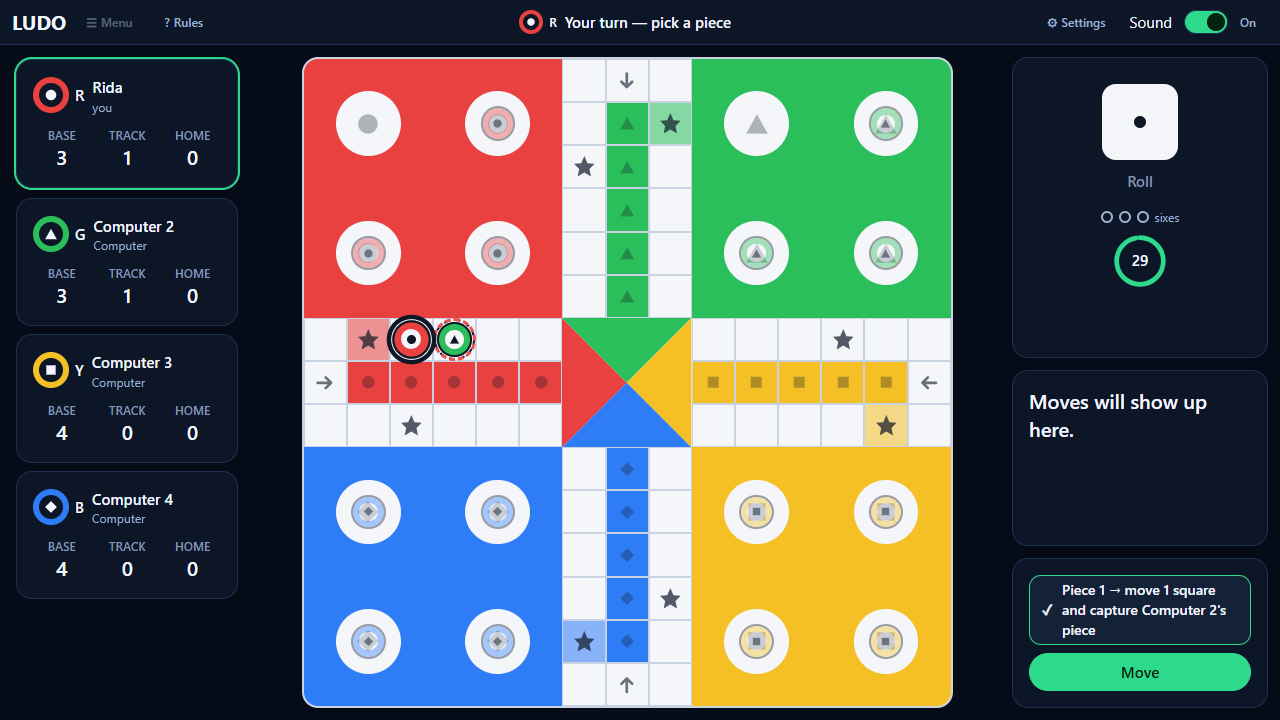
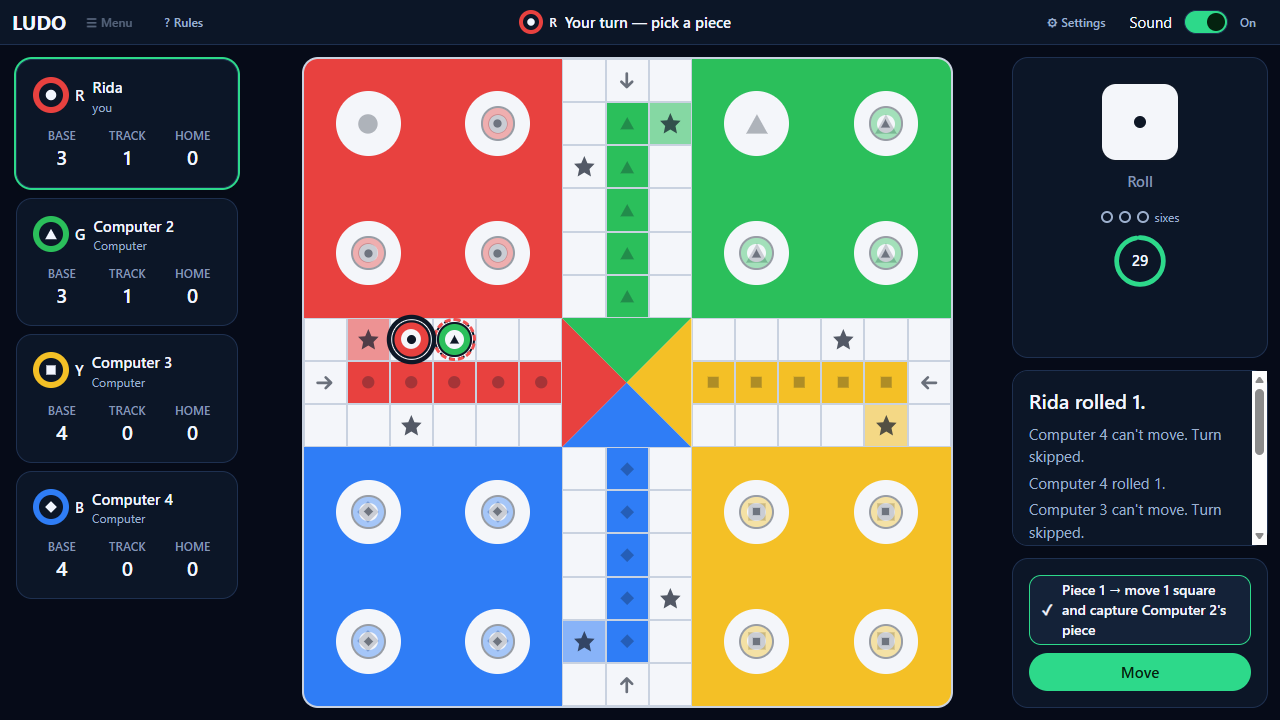
docs(traceability): record P9 evidence (FR-SYS-05, FR-SYS-10)
Adds the real-match checks and screenshots for event feedback, re-measures
the interrupted walk, and refreshes the rows they affect, including the PR
count for NFR-SYS-13.

Changed region(s): [[0.7812, 0.5194, 1.0, 0.7639]]

diff --git a/docs/05-traceability.md b/docs/05-traceability.md
@@ -16,12 +16,12 @@ Status: `—` not started · `WIP` · `Done` · `Blocked (reason)`
 | FR-SYS-02 Turn and dice | FR-08–11 | P7 | `src/store/gameStore.test.ts` covers EXC-02-1: a second roll while one is pending sends nothing. `src/components/Dice.test.tsx` proves the die shows exactly the value it is given and ignores presses while rolling. `src/screens/GameScreen.test.tsx` proves each of the five conditions alone stops a roll, a double click sends one roll, the turn text is right for each case, the die lands on the server's value, and a failed roll keeps the game and can be retried (EXC-02-2). `src/interaction/useDiceRoll.test.ts` covers the reply and the new state arriving in either order. `src/components/CountdownRing.test.tsx` proves the ring reads the clock every second and shows its time's-up message only at zero. `docs/evidence/FR-SYS-02-dice-checks.md` shows forced rolls of 1, 3 and 6 landing exactly in a real match | Done |
 | FR-SYS-03 Legal choices and move | FR-14–16, FR-18 | P8 | `src/store/gameStore.test.ts` covers EXC-03-2 in the store (an accepted move changes nothing until the snapshot arrives) and that legal moves come only from the server's list. `src/screens/GameScreen.test.tsx`, `src/interaction/useMoveSelection.test.ts`, `src/components/PieceLayer.test.tsx`, `src/components/Piece.test.tsx` and `src/components/MoveList.test.tsx` prove only `legalMoves` pieces are buttons (POST-03-1), the destination and capture preview, that one click never sends, that nothing moves before the new snapshot (EXC-03-2), and that a piece no longer legal shows the reason and resyncs (EXC-03-1, tests only). `docs/evidence/FR-SYS-03-move-checks.md` records whole games by mouse and by keyboard in a real match, and `docs/evidence/FR-SYS-03-capture-preview.png` shows the preview | Done |
 | FR-SYS-04 Invalid moves | FR-17 | P3, P8, P11 | `src/store/gameStore.test.ts` covers POST-04-1 (a rejected move leaves the snapshot deep-equal) and EXC-04-1 in the store (a timed-out command keeps state and clears pending). `src/adapter/LgsAdapter.test.ts` covers EXC-04-1 over a real socket (no ack, an ack for another request or an incomplete ack becomes `INTERNAL_ERROR`). `src/screens/GameScreen.test.tsx` proves on the game screen that a refused move shows the server's reason, drops the choice and leaves the board alone, that a reply with no reason gets friendly words (ALT-04-1), and that pressing again retries (EXC-04-1). These are tests only, because the real screen never offers an illegal piece. `src/components/ToastRegion.test.tsx` proves an error message stays until dismissed and sits in a live region. Still needed: recovery after a dropped connection (P11) | WIP |
-| FR-SYS-05 Animation and events | FR-19, FR-23, FR-36, FR-38 | P8, P9 | `src/store/gameStore.test.ts` proves an event never changes the snapshot. `src/components/MessageLog.tsx` exists but has no test of its own, and the game screen gives it no events yet. `src/components/PieceLayer.test.tsx` proves a moved piece keeps its element and lands where the geometry says, `src/feedback/motion.test.ts` covers how long it takes, and `docs/evidence/FR-SYS-09-game-screen-checks.md` measured 0 px error after a live move. `src/interaction/useMoveWalk.test.ts` and `src/screens/GameScreen.test.tsx` prove the step-by-step walk, Skip, an interrupted walk ending where the snapshot says, and the same final board with animation on or off (POST-05-2). `docs/evidence/FR-SYS-03-move-checks.md` measures each of these in a real match. Still needed: events in the message area, including captures (P9) | WIP |
+| FR-SYS-05 Animation and events | FR-19, FR-23, FR-36, FR-38 | P8, P9 | `src/store/gameStore.test.ts` proves an event never changes the snapshot. `src/feedback/messages.test.ts` covers every message template and proves nothing is guessed (EXC-05-1), `src/feedback/useEventFeedback.test.ts` proves events play in order and that no effect appears without an event, and `src/components/MessageLog.test.tsx` covers the log. `src/components/PieceLayer.test.tsx` proves a moved piece keeps its element and lands where the geometry says, `src/feedback/motion.test.ts` covers how long it takes, and `docs/evidence/FR-SYS-09-game-screen-checks.md` measured 0 px error after a live move. `src/interaction/useMoveWalk.test.ts` and `src/screens/GameScreen.test.tsx` prove the step-by-step walk, Skip, an interrupted walk ending where the snapshot says, and the same final board with animation on or off (POST-05-2). `docs/evidence/FR-SYS-03-move-checks.md` measures each of these in a real match, and `docs/evidence/FR-SYS-05-event-checks.md` records a capture playing in order, the log reading correctly, and Animations and Sound Off ending on the same board and words | Done |
 | FR-SYS-06 Progress and completion | FR-25–29 | P6, P10 | `src/config/geometry.test.ts` covers `progressCounts` and `src/store/gameStore.test.ts` covers `selectProgress` and `selectPlayerProgress`. `src/screens/GameScreen.test.tsx` checks Base, Track and Home against written-out numbers for all six fixtures, and that a dev-only check complains if `home` differs from `player.piecesHome`. `src/components/StatusPanel.test.tsx` covers the cards. `docs/evidence/FR-SYS-09-game-screen-checks.md` shows the cards matching the pieces in a live match. Still needed: winner screen only on `GAME_OVER` (P10) | WIP |
 | FR-SYS-07 Computer moves | FR-30–31 | P5, P7 | `src/store/gameStore.test.ts` covers `selectIsComputerTurn`. Choosing computer players is done: `src/screens/LobbyScreen.test.tsx` proves a seat fills only when `room:updated` arrives (POST-07-2), and `docs/evidence/FR-SYS-01-lobby-flow.md` shows it live in two tabs. `docs/evidence/FR-SYS-07-computer-move-from-snapshot.png` shows a computer's move drawn from a real snapshot on the game screen. `src/screens/GameScreen.test.tsx` proves a computer's turn says "Computer is thinking…" with the dots, and `docs/evidence/FR-SYS-07-computer-thinking.png` shows it in a real match | Done |
 | FR-SYS-08 Restart, exit, rematch | FR-32–34 | P5, P10 | `src/components/ConfirmDialog.test.tsx` covers the dialog alone. Leaving the lobby is connected: `src/screens/LobbyScreen.test.tsx` and `src/store/gameStore.test.ts` prove Cancel sends nothing (POST-08-1) and a failed leave keeps the room (POST-08-3), and `docs/evidence/FR-SYS-01-lobby-flow.md` shows Esc and Cancel changing nothing in a real browser. Still needed: confirm dialog on restart and leave during a game; cancel leaves the game unchanged | WIP |
-| FR-SYS-09 One-screen view | FR-35–36 | P6 | `docs/evidence/FR-SYS-09-one-screen-1280x720.png` and `docs/evidence/FR-SYS-09-game-screen-checks.md`: board, dice, turn, progress and messages all fit at 1280×720 with no scrolling, measured in Edge. Under 1024 px the layout stacks and hides nothing (ALT-09-1). `src/screens/GameScreen.test.tsx` proves every part is on the screen. `docs/evidence/FR-SYS-03-move-checks.md` re-measures the screen with the longest list of moves open. P7 filled the dice with live content, and P9 does the same for the messages | Done |
-| FR-SYS-10 Sound, animation, theme | FR-37–39 | P5, P8, P9 | `src/App.test.tsx` covers all three settings in the Settings modal and POST-10-2 and POST-10-3: changing them leaves the snapshot and room untouched and sends nothing to the server. `docs/evidence/FR-SYS-01-lobby-flow.md` shows the theme switching on every screen, and `docs/evidence/FR-SYS-10-game-light.png` shows the game screen in light theme. `src/screens/GameScreen.test.tsx` proves the top bar's sound switch leaves the snapshot alone. `docs/evidence/NFR-SYS-08-kitchen-sink-checks.md` shows On, Fast and Off changing how long CSS motion takes. `docs/evidence/FR-SYS-03-move-checks.md` shows Animations On and Off ending on an identical board in a real match. Sound is stored but nothing uses it yet. Still needed: toggle sound and theme during a real game and check the game state is unchanged (P9) | WIP |
+| FR-SYS-09 One-screen view | FR-35–36 | P6 | `docs/evidence/FR-SYS-09-one-screen-1280x720.png` and `docs/evidence/FR-SYS-09-game-screen-checks.md`: board, dice, turn, progress and messages all fit at 1280×720 with no scrolling, measured in Edge. Under 1024 px the layout stacks and hides nothing (ALT-09-1). `src/screens/GameScreen.test.tsx` proves every part is on the screen. `docs/evidence/FR-SYS-03-move-checks.md` re-measures the screen with the longest list of moves open, and `docs/evidence/FR-SYS-05-event-checks.md` with a full message log. P7 and P9 filled the dice and messages with live content | Done |
+| FR-SYS-10 Sound, animation, theme | FR-37–39 | P5, P8, P9 | `src/App.test.tsx` covers all three settings in the Settings modal and POST-10-2 and POST-10-3: changing them leaves the snapshot and room untouched and sends nothing to the server. `docs/evidence/FR-SYS-01-lobby-flow.md` shows the theme switching on every screen, and `docs/evidence/FR-SYS-10-game-light.png` shows the game screen in light theme. `src/screens/GameScreen.test.tsx` proves the top bar's sound switch leaves the snapshot alone. `docs/evidence/NFR-SYS-08-kitchen-sink-checks.md` shows On, Fast and Off changing how long CSS motion takes. `docs/evidence/FR-SYS-03-move-checks.md` shows Animations On and Off ending on an identical board in a real match. `src/feedback/sound.test.ts` proves sound waits for the first press and does nothing when off. `docs/evidence/FR-SYS-05-event-checks.md` shows the right sounds playing in a real match (placeholder tones), and sound, theme and animation changed during a real game with the board and log unchanged. Saving settings stays behind `PERSIST_SETTINGS` (ALT-10-1 is TO CONFIRM) | Done |
 | (D2 FR-07) Rules summary | FR-07 | P5, P6 | `src/components/RulesSummary.test.tsx` proves the text is built from `rules`. `src/App.test.tsx` proves How to play opens the standard rules from the main screen, that a room's own rules replace them in the lobby, and that the game screen's Rules button opens that match's rules. `docs/evidence/NFR-SYS-11-changed-rules.png` shows the text following the server's rules in a real match | Done |
 | (D2 FR-03) Same-device HvH | FR-03 | P13 | TO CONFIRM | Blocked (same-device play is TO CONFIRM, `00-requirements.md` §5) |
 
@@ -31,17 +31,17 @@ Status: `—` not started · `WIP` · `Done` · `Blocked (reason)`
 |---|---|---|---|
 | NFR-SYS-01 1 s acknowledgement | P4, P12 | `src/store/gameStore.test.ts` proves `pendingCommand` is set as soon as a roll is sent. `src/components/Button.test.tsx` and `src/components/Dice.test.tsx` prove the pending and rolling states. `docs/evidence/NFR-SYS-08-kitchen-sink-checks.md` shows "Rolling…" appearing at once. `src/screens/SetupScreen.test.tsx`, `src/screens/LobbyScreen.test.tsx` and `src/screens/GameScreen.test.tsx` prove the pressed control shows pending at once on the real screens, and `docs/evidence/FR-SYS-02-dice-checks.md` shows it on the die in a real match. `src/interaction/useMoveSelection.test.ts` and `src/screens/GameScreen.test.tsx` prove a move locks the controls and shows pending at once. Still needed: Performance-panel trace on the real screens | WIP |
 | NFR-SYS-02 AI within 2 s | P12 | Dev log of AI turn durations over one game | — |
-| NFR-SYS-03 No crash | P6, P12 | The game screen has an error boundary. `src/components/ErrorBoundary.test.tsx` and `src/App.test.tsx` prove a snapshot that can't be drawn shows "Something went wrong — your game is safe" and a Try again button that sends `state:sync`, and that a good snapshot brings the board back. Tests only: the mock can't send a broken snapshot to a real browser. `docs/evidence/FR-SYS-03-move-checks.md` records 2 whole games with no console errors. Still needed: a boundary on the other screens; 3 more full games without a crash | WIP |
+| NFR-SYS-03 No crash | P6, P12 | The game screen has an error boundary. `src/components/ErrorBoundary.test.tsx` and `src/App.test.tsx` prove a snapshot that can't be drawn shows "Something went wrong — your game is safe" and a Try again button that sends `state:sync`, and that a good snapshot brings the board back. Tests only: the mock can't send a broken snapshot to a real browser. `docs/evidence/FR-SYS-03-move-checks.md` records 2 whole games with no console errors, and `docs/evidence/FR-SYS-05-event-checks.md` 2 more on later code. Still needed: a boundary on the other screens; 5 full games in a row on the final build (P12) | WIP |
 | NFR-SYS-04 State kept on bad input | P3 | `src/store/gameStore.test.ts`: an older version is dropped, and a rejected or timed-out command leaves the snapshot deep-equal. `src/adapter/LgsAdapter.test.ts`: an incomplete reply is never applied. P11 adds the reconnect case | Done |
 | NFR-SYS-05 Dice not altered | P7 | `src/components/Dice.test.tsx`: the face equals the value given, and no number shows while rolling. A search finds no `Math.random` in `src/`, and `eslint.config.js` now rejects it outside tests. `src/screens/GameScreen.test.tsx` proves the die lands on the server's 6, 1 and 3. `docs/evidence/FR-SYS-02-dice-checks.md` and `docs/evidence/NFR-SYS-05-die-shows-six.png` show the same forced rolls in a real match | Done |
 | NFR-SYS-06 First-timer completes a turn | P12 | Hallway test with one person; note result | — |
-| NFR-SYS-07 Not colour alone | P4, P12 | `docs/evidence/NFR-SYS-07-player-marks.png`: the `PlayerMark` row in grayscale, where shape and letter still tell the four players apart. `PlayerMark` and `Piece` read `PLAYER_IDENTITY` in `src/config/players.ts`. `src/screens/LobbyScreen.test.tsx` proves every lobby seat shows its mark, empty seats included. `src/components/StatusPanel.test.tsx` proves the game screen's cards show more than colour, and `docs/evidence/NFR-SYS-07-board-grayscale.png` shows the board and status panel in grayscale. `docs/evidence/NFR-SYS-07-move-highlights-grayscale.png` and `docs/evidence/NFR-SYS-07-capture-grayscale.png` show the move highlights, destination marker and dashed capture ring in grayscale. Still needed: repeat it for P9's capture effects and P10's win screen (P12) | WIP |
+| NFR-SYS-07 Not colour alone | P4, P12 | `docs/evidence/NFR-SYS-07-player-marks.png`: the `PlayerMark` row in grayscale, where shape and letter still tell the four players apart. `PlayerMark` and `Piece` read `PLAYER_IDENTITY` in `src/config/players.ts`. `src/screens/LobbyScreen.test.tsx` proves every lobby seat shows its mark, empty seats included. `src/components/StatusPanel.test.tsx` proves the game screen's cards show more than colour, and `docs/evidence/NFR-SYS-07-board-grayscale.png` shows the board and status panel in grayscale. `docs/evidence/NFR-SYS-07-move-highlights-grayscale.png` and `docs/evidence/NFR-SYS-07-capture-grayscale.png` show the move highlights, destination marker and dashed capture ring in grayscale. P9's capture and finish effects are movement, and the log uses names, so neither depends on colour. Still needed: repeat it for P10's win screen (P12) | WIP |
 | NFR-SYS-08 Simple wording + keyboard | P4–P10, P12 | `src/components/SegmentedControl.test.tsx`, `src/components/Dice.test.tsx`, `src/App.test.tsx` and `docs/evidence/NFR-SYS-08-kitchen-sink-checks.md` cover the controls on their own. `docs/evidence/FR-SYS-01-lobby-flow.md` records a keyboard-only run from the main screen through setup and the lobby to the game starting, and `docs/evidence/FR-SYS-09-game-screen-checks.md` records the Tab order and the `?` and Esc keys on the game screen. `src/interaction/useGameKeys.test.ts` covers `R`, `1`–`4`, `Enter`, `Esc` and `S`, and `docs/evidence/FR-SYS-02-dice-checks.md` shows rolling by `R` and Space with the die keeping focus. `docs/evidence/FR-SYS-03-move-checks.md` records a whole game, from the main screen to a winner, played with only the keyboard. Player-facing text is in `src/feedback/copy.ts`. Still needed: the confirm dialogs and win screen from P10 | WIP |
 | NFR-SYS-09 Chrome / Firefox / Edge | P12 | Not run yet. Every browser check so far used headless Edge (`docs/evidence/FR-SYS-09-game-screen-checks.md`); Chrome and Firefox have not been tried. Still needed: a smoke test in each | — |
-| NFR-SYS-10 Window sizes | P6, P12 | `docs/evidence/NFR-SYS-10-1024-wide.png`, `docs/evidence/NFR-SYS-10-1366-wide.png` and `docs/evidence/NFR-SYS-10-1920-wide.png`, with measurements in `docs/evidence/FR-SYS-09-game-screen-checks.md`: the game screen has no scrolling and every part in view. `docs/evidence/FR-SYS-03-move-checks.md` re-measures the game screen with the longest list of moves. Still needed: the main, setup and lobby screens at these widths; repeat once P9 and P10 add their controls (P12) | WIP |
+| NFR-SYS-10 Window sizes | P6, P12 | `docs/evidence/NFR-SYS-10-1024-wide.png`, `docs/evidence/NFR-SYS-10-1366-wide.png` and `docs/evidence/NFR-SYS-10-1920-wide.png`, with measurements in `docs/evidence/FR-SYS-09-game-screen-checks.md`: the game screen has no scrolling and every part in view. `docs/evidence/FR-SYS-03-move-checks.md` re-measures the game screen with the longest list of moves, and `docs/evidence/FR-SYS-05-event-checks.md` with a full message log. Still needed: the main, setup and lobby screens at these widths; repeat once P10 adds its controls (P12) | WIP |
 | NFR-SYS-11 Rules in config | P1, P5, P6 | `src/config/geometry.test.ts` covers board geometry for all 4 colours. `mock-server/server.test.ts` proves `POST /debug/rules` changes `safeSquares` for the next match. `src/components/RulesSummary.test.tsx` proves the rules text follows `RuleConfig`. `src/App.test.tsx` proves the lobby and the game screen show the room's own rules, not the standard ones. `src/components/BoardGrid.test.tsx` proves stars follow the list they are given. `docs/evidence/NFR-SYS-11-default-board.png`, `docs/evidence/NFR-SYS-11-changed-board.png`, `docs/evidence/NFR-SYS-11-default-rules.png` and `docs/evidence/NFR-SYS-11-changed-rules.png` show `POST /debug/rules` moving the stars and changing the rules text with no code change | Done |
 | NFR-SYS-12 Defined interfaces | P2, P3 | `src/store/gameStore.test.ts` runs the store against `FakeAdapter` with no network. `src/adapter/LgsAdapter.test.ts` runs the real adapter over real sockets. `eslint.config.js` blocks `socket.io-client` outside `src/adapter/` and blocks `src/` from importing the mock. `docs/evidence/NFR-SYS-12-connected-to-mock.png` shows the app connected to the mock | Done |
-| NFR-SYS-13 Maintainable | all | PRs #1 to #14 are merged for P0 to P8, the P2 fix and four docs updates; folder layout followed. None of the first thirteen had a recorded review when checked on 2026-11-09, #14 was merged without one, and our D3 names PR reviews as the proof. Still needed: PR reviews; a PR for each remaining task | WIP |
+| NFR-SYS-13 Maintainable | all | PRs #1 to #15 are merged for P0 to P9, the P2 fix and four docs updates; folder layout followed. None of the first fourteen had a recorded review when checked on 2026-11-09, #15 was merged without one, and our D3 names PR reviews as the proof. Still needed: PR reviews; a PR for each remaining task | WIP |
 | NFR-SYS-14 No storage for play | P3, P5 | `docs/evidence/NFR-SYS-14-storage-check.md`: outside test setup, only `src/store/settingsStore.ts` uses `localStorage`, and after a game the browser holds only the display settings. Since P5, `src/store/savedSession.ts` keeps the session token in `sessionStorage`, as `CLAUDE.md` §4 allows, and clears it on leaving. Saving settings stays behind `PERSIST_SETTINGS` (ALT-10-1 is TO CONFIRM) | Done |
 
 ## Evidence folder

diff --git a/docs/evidence/FR-SYS-05-event-checks.md b/docs/evidence/FR-SYS-05-event-checks.md
@@ -1,0 +1,78 @@
+# Event feedback, message log and sound checks (P9)
+
+Run on 2026-11-09 in headless Edge, using the real app and the mock server. Each match had one
+person and 3 computer players. The sounds are placeholder tones.
+
+## A capture plays in order (FR-SYS-05, the task's done-when)
+
+The mock's `capture-ready` scenario, with Animations and Sound on. Times are from the click that
+sent the move.
+
+| Time | What happened |
+|---|---|
+| 42 ms | The new snapshot arrives, the piece starts walking and Skip appears |
+| 169 ms | The captured piece flashes and shakes. The log line becomes "Rida rolled 1 and captured Computer 2's piece!" |
+| 334 ms | The flash ends and the piece starts back to its base |
+| 754 ms | It has arrived. "Roll again!" appears, the log adds "Rida rolls again!", and Skip goes away |
+| 1767 ms | The banner goes away |
+
+Each step started only after the one before it had finished.
+
+**Sounds:** the browser's audio calls show `roll`, `move`, `capture`, in that order. The sound file
+was not loaded until after the first press. `FR-SYS-05-roll-again.png`.
+
+## Same run with Animations and Sound off (POST-05-2, POST-10-2)
+
+The board and the log matched the run above exactly. The capture effect never showed, no sound
+played, and the sound file was never loaded.
+
+## The log reads like a story (D2 FR-36)
+
+- The end of a whole game: "Computer 2 wins!", "Computer 2 rolled 1 and got a piece home!", "Rida
+  rolled 1 and moved a piece.", "Computer 4 rolled 5 and moved a piece.", "Computer 4 rolls again!"
+  `FR-SYS-05-message-log.png` shows it during a game with 4 moves open.
+- `no-legal-move`: "Rida rolled 3." then "Rida can't move. Turn skipped.", with the banner "No move
+  possible — turn skipped". `FR-SYS-05-turn-skipped.png`.
+- `three-sixes`: "Rida rolled 6." then "Three 6s in a row — Rida's turn is over.", and the sixes
+  pips flashed.
+- `near-win`: the winning move still played. The piece reached home and glowed at 446 ms, and "Rida
+  wins!" appeared at 864 ms.
+
+## Skip (D2 FR-38)
+
+`S` was pressed at 219 ms, during the capture flash. By 233 ms the effect had ended, Skip had gone
+and the log had its final line. Every piece was on its exact square.
+
+## Settings changed during a real game (FR-SYS-10)
+
+Sound, theme and animation speed were each changed and changed back. The board and the log were
+identical before and after (POST-10-2, POST-10-3).
+
+## Whole games and other checks
+
+| | Mouse | Keyboard only |
+|---|---|---|
+| Rolls | 69 | 115 |
+| Moves | 49 | 75 |
+| Result | Computer 2 got 4 pieces home | Computer 3 got 4 pieces home |
+| Console errors or error messages | None | None |
+| Pieces off their square at the end | 0.002% of the board | 0.002% of the board |
+
+Both games used `mock-server --debug` with the computers' delay set to 30 ms and no turn timer. A
+script played them, and Animations were On.
+
+- **Your exact setup:** `npm run mock` and `npm run dev`, with default rules and no debug routes: 10
+  rolls and 6 moves with no console errors, and the log read correctly.
+- **Window sizes (FR-SYS-09, NFR-SYS-10):** with a full log there was no page scrolling and every
+  part stayed in view at 1280×720 and 1024×768. Long logs scroll inside their own card.
+
+## Not checked here
+
+- The bump on the Home count is proved by `src/screens/GameScreen.test.tsx`, not measured in a real
+  match.
+- Only Edge and the mock have been tried, and the audio check counts what the page asked the browser
+  to play. Nobody has listened to it.
+- A computer's own capture was not forced in a real match. That a computer's next roll doesn't cut
+  it short is proved by `src/feedback/useEventFeedback.test.ts`.
+- The last change, scrollbar colour in each theme, came after the event checks above. One more whole
+  game by mouse ran after it (the table above).

diff --git a/docs/evidence/FR-SYS-03-move-checks.md b/docs/evidence/FR-SYS-03-move-checks.md
@@ -45,7 +45,7 @@ with no console errors.
 |---|---|
 | A walk of 6 squares, Animations On | Reached each square in order, at 157, 291, 424, 557, 717 and 841 ms after the click |
 | Skip with `S`, on a 5-square walk that takes 600 ms | Pressed at about 221 ms, on its final square at 259 ms. `FR-SYS-05-skip-during-walk.png` |
-| Interrupted: a computer's snapshot arrives 150 ms into a 5-square walk | On its final square at 451 ms, 0.000% from where the snapshot says |
+| Interrupted (re-measured in P9, when a snapshot that moves no piece stopped interrupting a walk): a computer moves a piece about 300 ms into a 5-square walk | On its final square at 594 ms, instead of about 715 ms if left to finish, and 0.000% from where the snapshot says |
 | The same last move with Animations Off and On (POST-05-2) | Off passed through no squares and On passed through each one. All 16 pieces ended in identical places |
 
 ## Other checks
